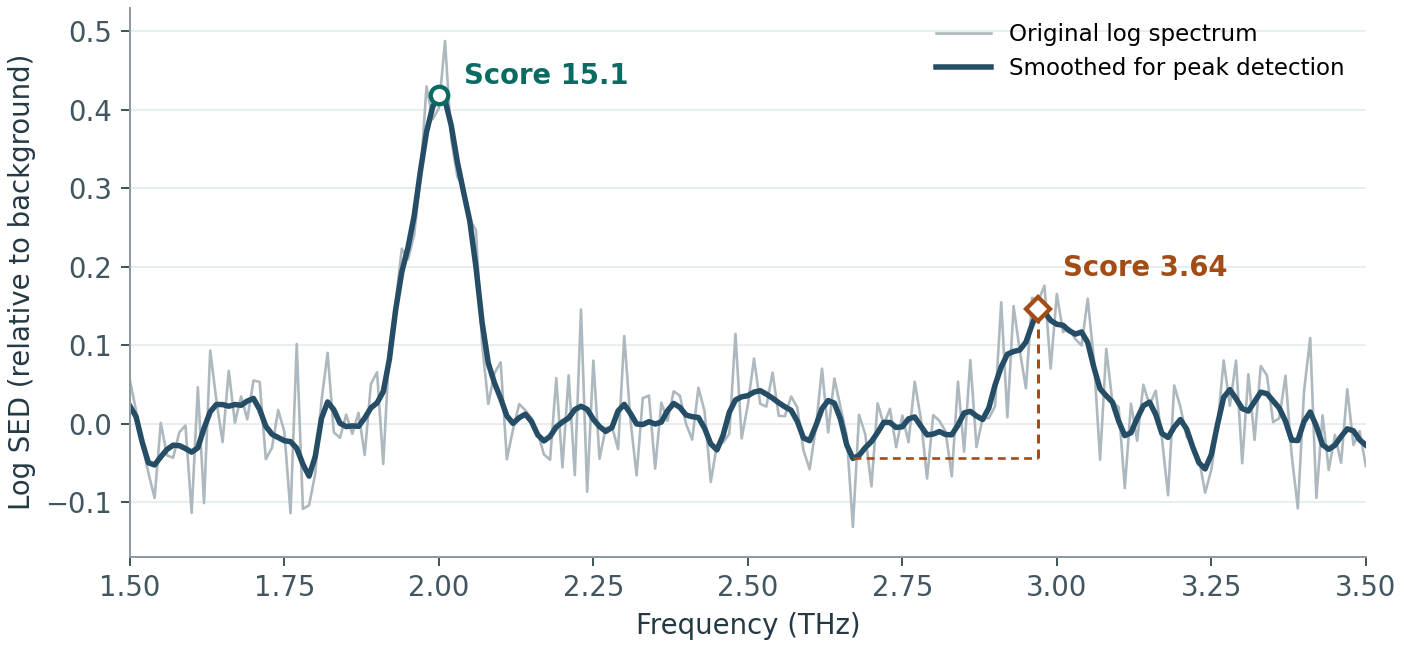
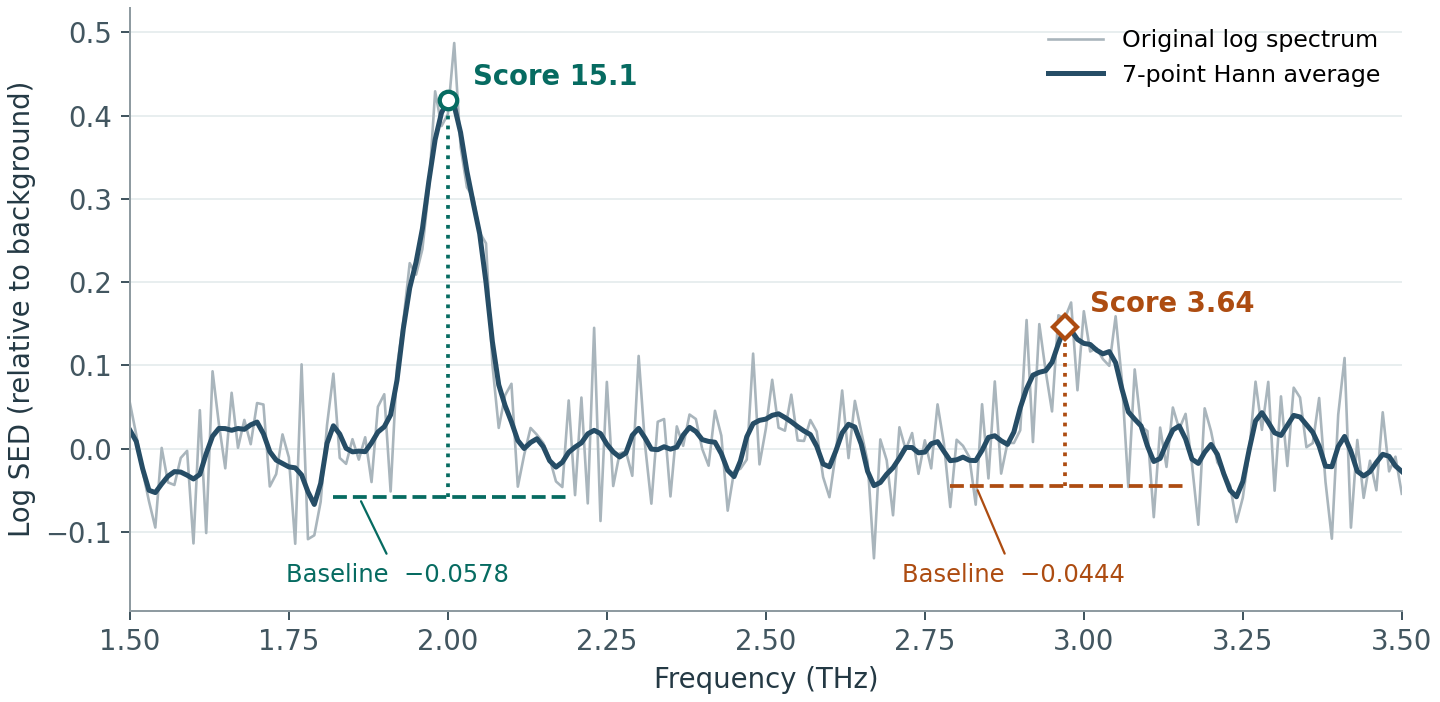
Show how smoothing and peak baselines determine detection scores

diff --git a/docs/source/input_parameters/peak_min_significance.rst b/docs/source/input_parameters/peak_min_significance.rst
@@ -16,20 +16,54 @@ peak_min_significance
    ``4.0``.
 
 **How peaks are picked**
-   On a smoothed log spectrum, pySED measures how far each peak rises above
-   its surrounding baseline (its *prominence*). It estimates the local noise
-   from the typical difference between the original and smoothed log spectra
-   over up to 31 nearby frequency samples. The peak score is its prominence
-   divided by this noise estimate. pySED picks peaks whose score reaches or
-   exceeds your setting.
+
+1. **Smooth the spectrum.** pySED takes the natural logarithm of the SED.
+   At each frequency it averages seven consecutive log values, with weights
+   ``[0, 1, 3, 4, 3, 1, 0] / 12`` (a Hann window). The middle point carries
+   the most weight. Peak fitting still uses the original SED.
+2. **Find the baseline for each peak.** Starting at the peak on the smoothed
+   curve, look left and right as far as a higher peak or the edge of the
+   spectrum. Find the lowest point on each side. The higher of those two
+   levels is the baseline. The peak top minus this baseline is its *prominence*.
+3. **Compare the rise with the noise.** pySED estimates noise from the spread
+   of the differences between the original and smoothed log spectra over up
+   to 31 nearby samples. Divide the prominence by this noise estimate. A
+   peak is picked when its score reaches or exceeds your setting.
 
 .. figure:: ../_static/peak-significance.png
-   :alt: Example spectrum with peak scores of 15.1 near 2 THz and 3.64 near 3 THz.
+   :alt: Two peaks on a smoothed log spectrum. The baseline is -0.0578 for the peak near 2 THz and -0.0444 for the peak near 3 THz.
 
-   In this synthetic spectrum, the dashed line shows the weaker peak's
-   prominence (0.190). Dividing by its local noise estimate (0.0522) gives
-   a score of 3.64. With the default ``4.0``, only the peak near 2 THz is
-   picked. With ``3.0``, both are picked.
+   In this synthetic example the horizontal dashes mark each peak's baseline.
+   The vertical dotted lines show how far the peaks rise above those baselines.
+
+.. list-table:: Scores for the two peaks in the figure (rounded)
+   :header-rows: 1
+
+   * - Peak
+     - Smoothed top
+     - Baseline
+     - Prominence
+     - Local noise
+     - Score
+   * - Near 2 THz
+     - 0.4186
+     - -0.0578
+     - 0.4764
+     - 0.0316
+     - **15.1**
+   * - Near 3 THz
+     - 0.1456
+     - -0.0444
+     - 0.1900
+     - 0.0522
+     - **3.64**
+
+For the 2 THz peak, the left and right minima are -0.0670 and -0.0578, so
+the baseline is -0.0578. The nearby differences have a median absolute
+deviation of 0.0213, giving a noise estimate of
+:math:`1.4826 \times 0.0213 \approx 0.0316`. The score is therefore
+:math:`[0.4186 - (-0.0578)] / 0.0316 \approx 15.1`. With the default
+``4.0``, only this peak is picked. At ``3.0``, both are picked.
 
 :doc:`Back to Parameter Index <../input_parameters>`
 
